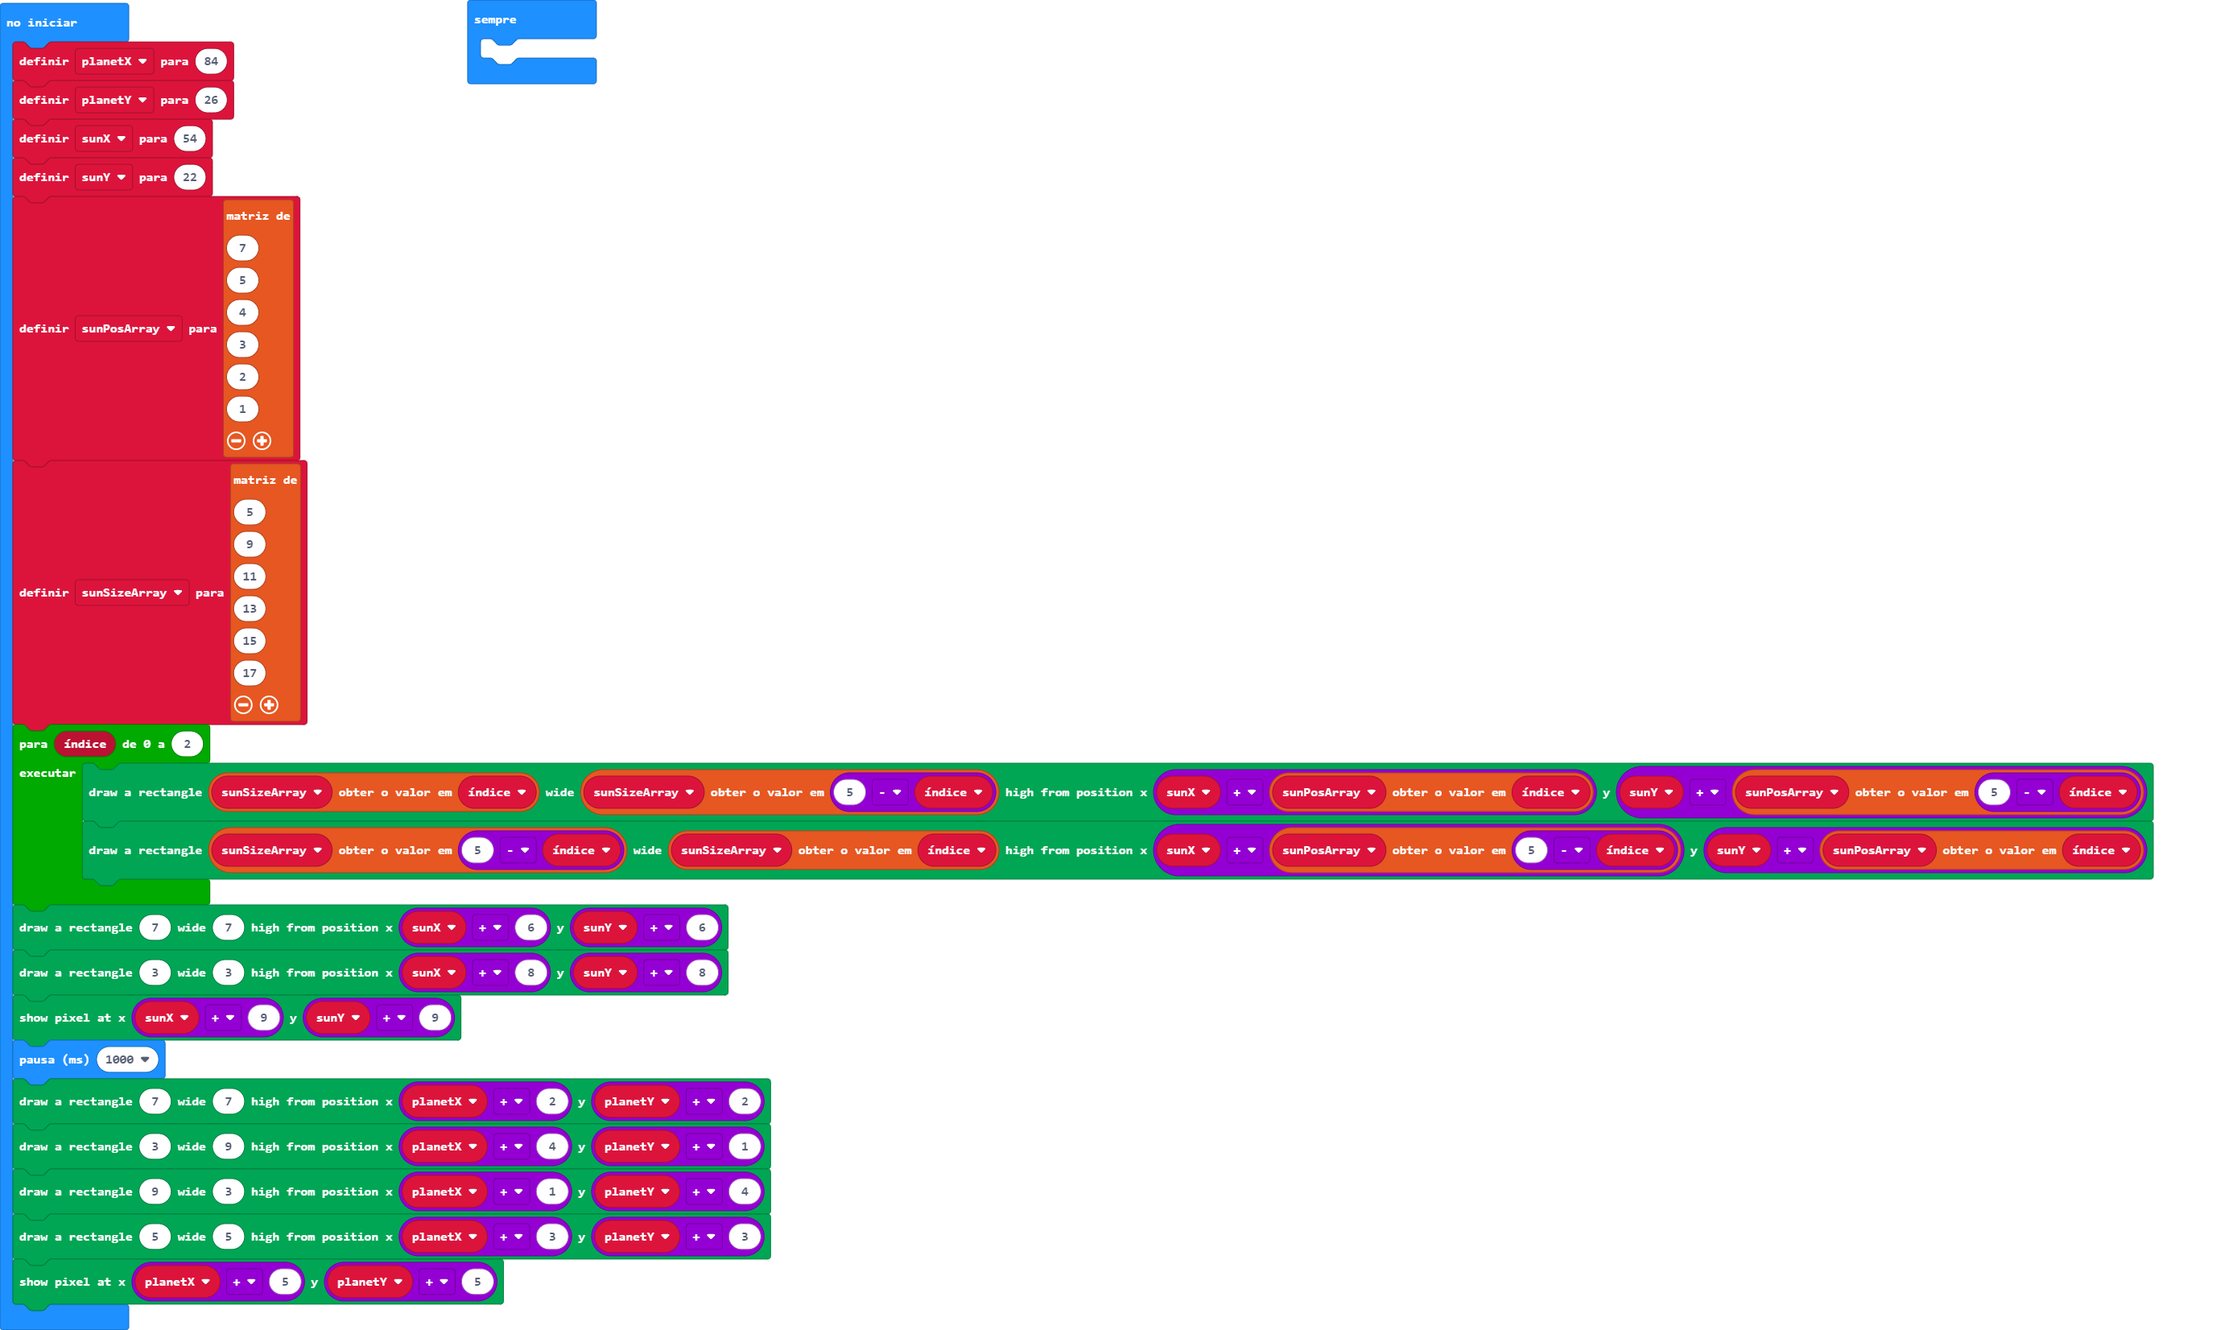
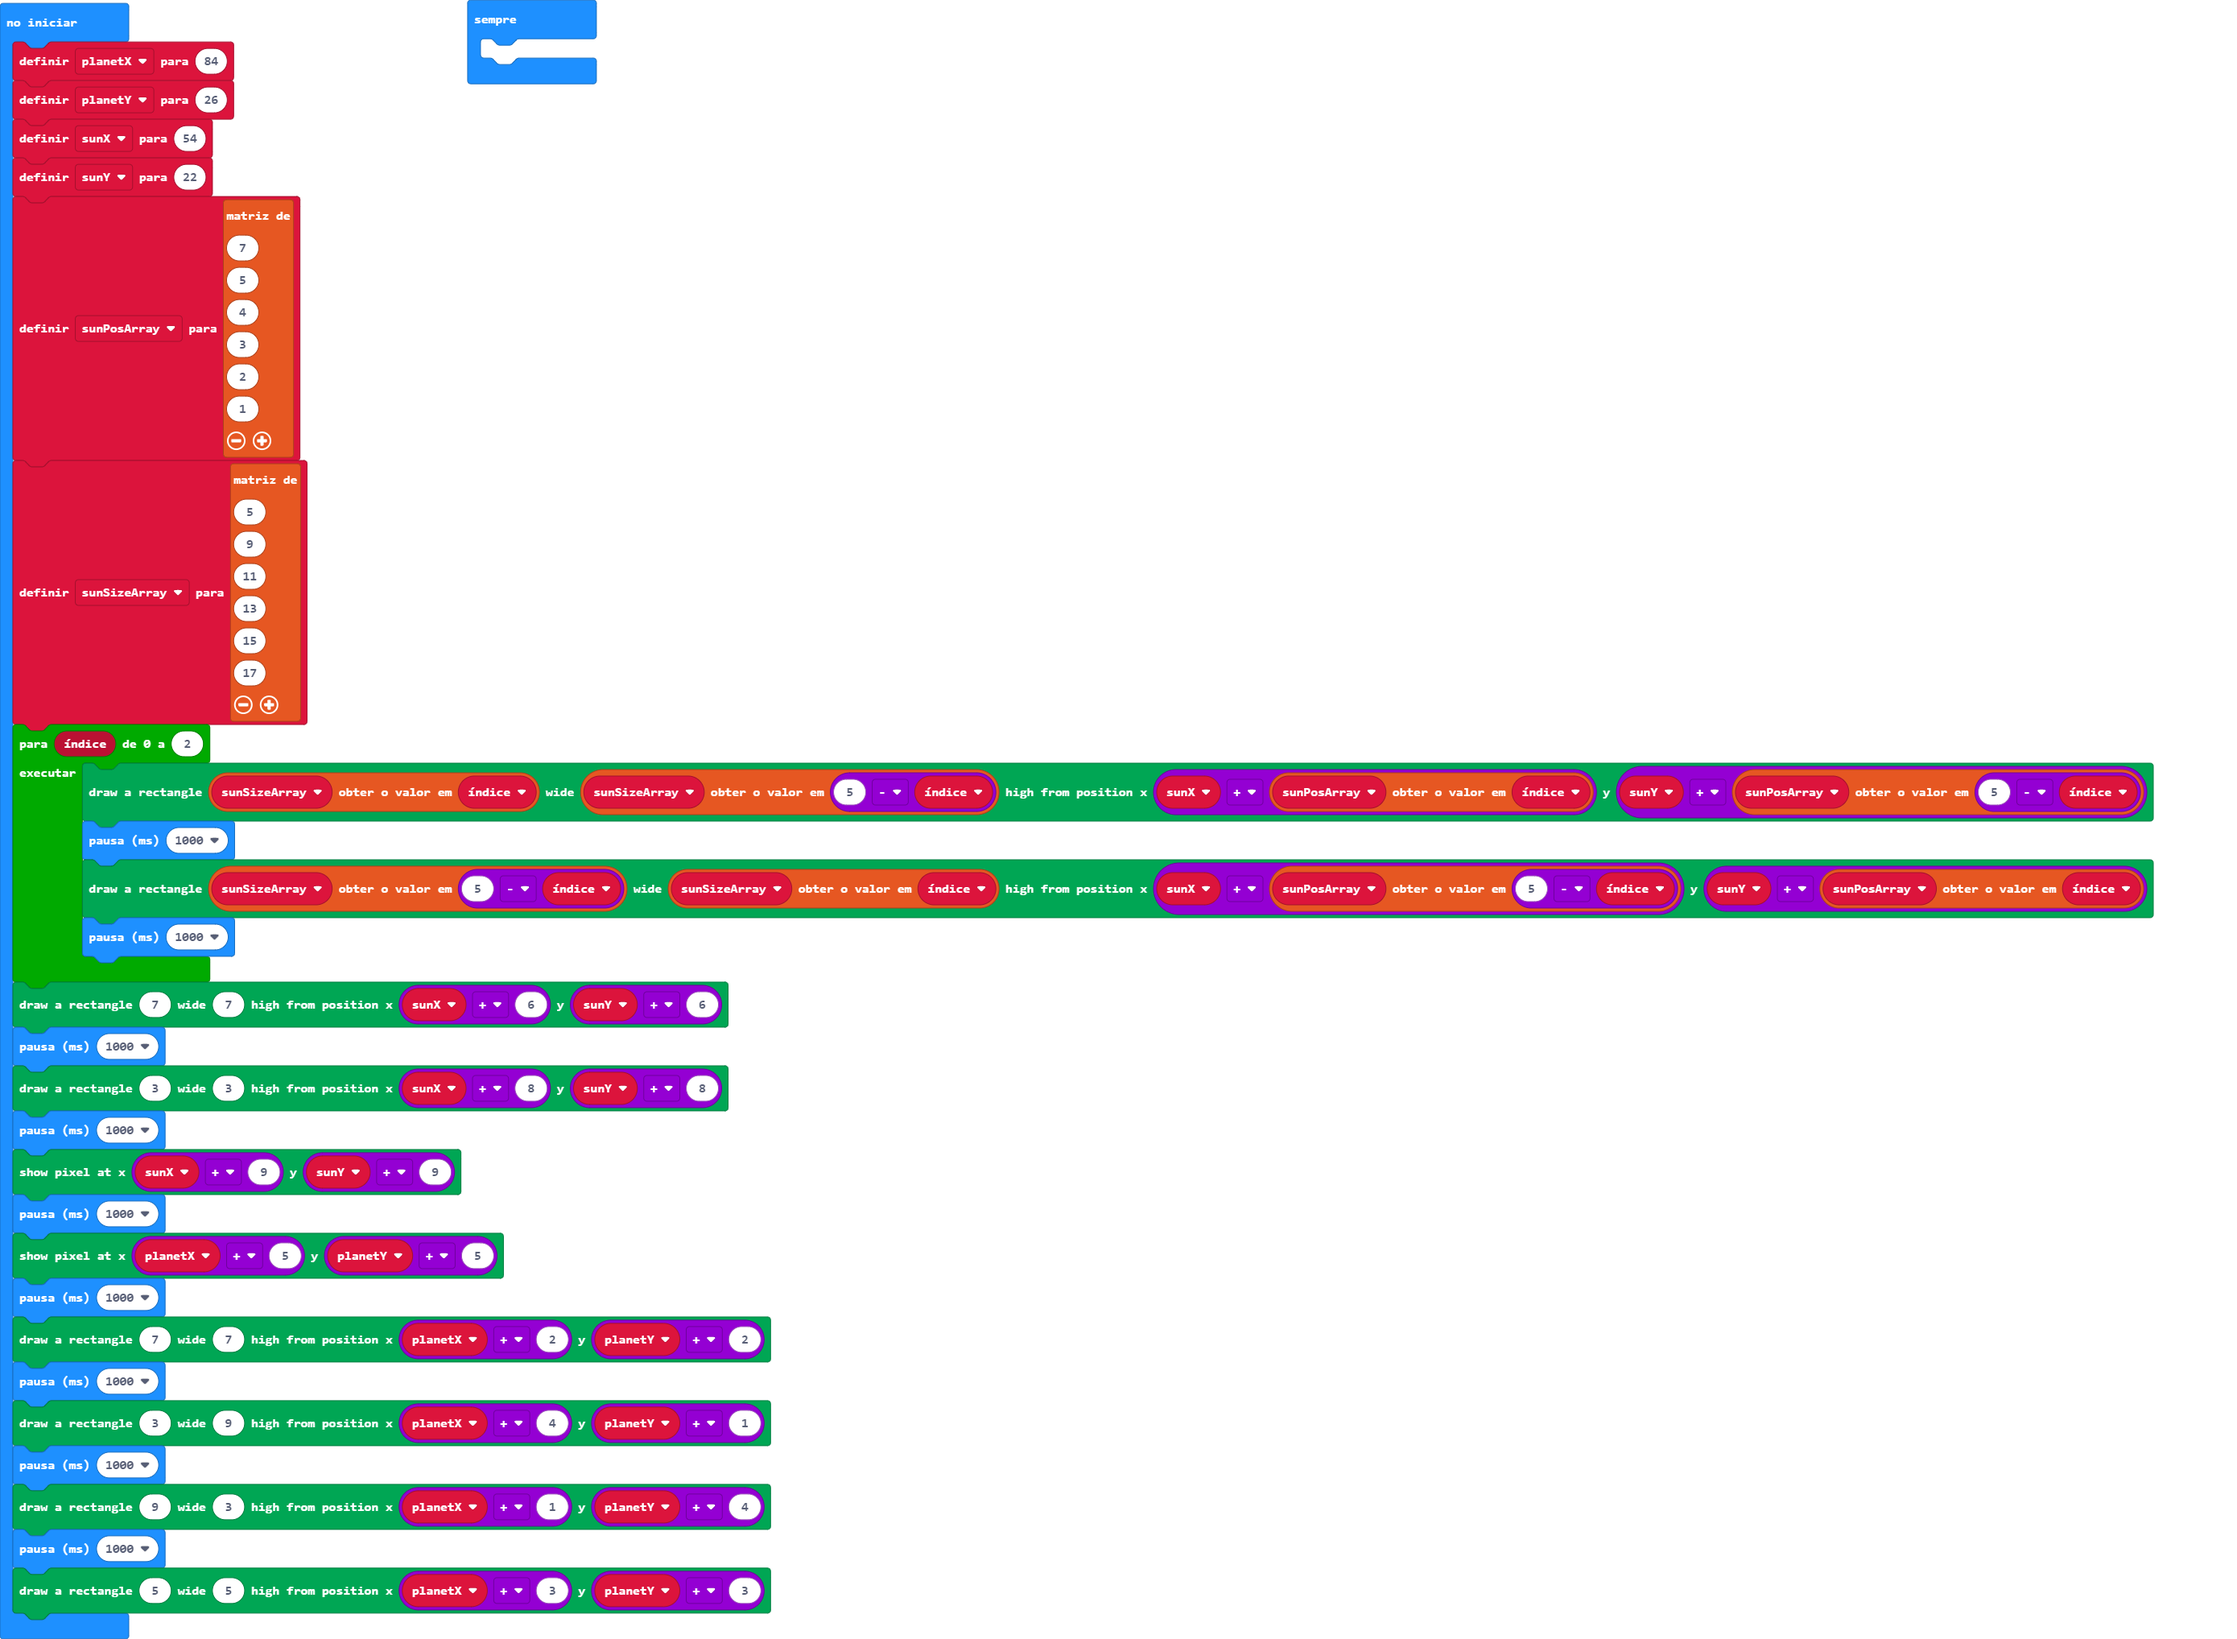
Atualizar 'main.blocks, main.ts'

Changed region(s): [[0.0, 0.0, 0.9903, 0.9879], [0.1857, 0.0, 0.2785, 0.0617]]

diff --git a/main.ts b/main.ts
@@ -20,17 +20,25 @@ let sunSizeArray = [
 ]
 for (let índice = 0; índice <= 2; índice++) {
     kitronik_VIEW128x64.drawRect(sunSizeArray[índice], sunSizeArray[5 - índice], sunX + sunPosArray[índice], sunY + sunPosArray[5 - índice])
+    basic.pause(1000)
     kitronik_VIEW128x64.drawRect(sunSizeArray[5 - índice], sunSizeArray[índice], sunX + sunPosArray[5 - índice], sunY + sunPosArray[índice])
+    basic.pause(1000)
 }
 kitronik_VIEW128x64.drawRect(7, 7, sunX + 6, sunY + 6)
+basic.pause(1000)
 kitronik_VIEW128x64.drawRect(3, 3, sunX + 8, sunY + 8)
+basic.pause(1000)
 kitronik_VIEW128x64.setPixel(sunX + 9, sunY + 9)
 basic.pause(1000)
-kitronik_VIEW128x64.drawRect(7, 7, planetX + 2, planetY + 2)
-kitronik_VIEW128x64.drawRect(3, 9, planetX + 4, planetY + 1)
-kitronik_VIEW128x64.drawRect(9, 3, planetX + 1, planetY + 4)
-kitronik_VIEW128x64.drawRect(5, 5, planetX + 3, planetY + 3)
 kitronik_VIEW128x64.setPixel(planetX + 5, planetY + 5)
+basic.pause(1000)
+kitronik_VIEW128x64.drawRect(7, 7, planetX + 2, planetY + 2)
+basic.pause(1000)
+kitronik_VIEW128x64.drawRect(3, 9, planetX + 4, planetY + 1)
+basic.pause(1000)
+kitronik_VIEW128x64.drawRect(9, 3, planetX + 1, planetY + 4)
+basic.pause(1000)
+kitronik_VIEW128x64.drawRect(5, 5, planetX + 3, planetY + 3)
 basic.forever(function () {
 	
 })
